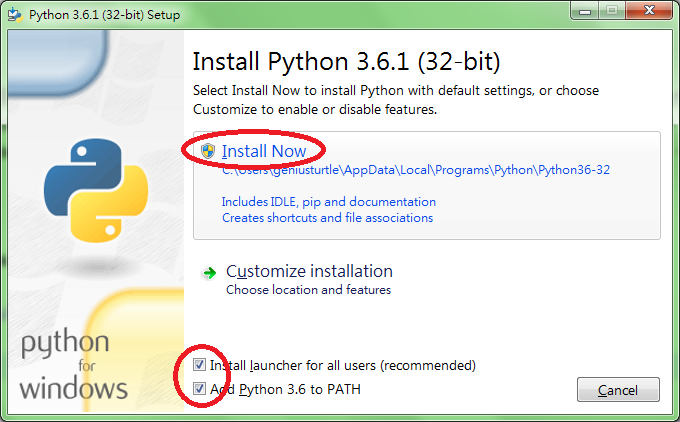
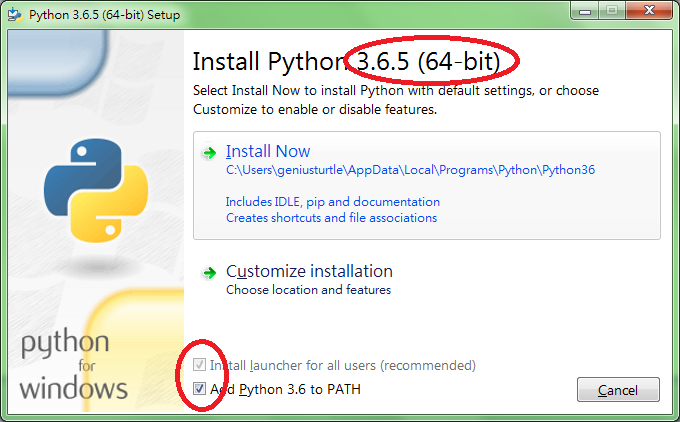
Refine content

diff --git a/tutor_python/envInstall.htm b/tutor_python/envInstall.htm
@@ -11,19 +11,23 @@
 <blockquote>
 
 <p>
-關於開發環境的取得，首先可至 <a href="https://www.python.org/">https://www.python.org/</a>點選「Downloads」→「Binaries」。
-你在這裡可以發現 Python 有兩個版本，Python 2 和 Python 3，本課程將以 3 為主，但在某些狀況下，也會提到 2 與 3 的不同。
+本篇以 Windows 為例，說明 Python 開發環境的安裝。
+關於開發環境的取得，首先可至 <a href="https://www.python.org/">https://www.python.org/</a>點選 Downloads」→「Windows」→「Latest Python 3 Release ...」，並下載「Windows x86-64 executable installer」。
+事實上，你在這些步驟中，可以發現 Python 有兩個版本，Python 2 和 Python 3，
+本課程將以 3 為主，但在某些狀況下，也會提到 2 與 3 的不同。
 以下的安裝說明將以 Windows 為例，若使用其他作業系統，請參考網路上的相關資料。
+另外，由於教材未必會隨 Python 官方網站介面之更改而更新，故實際操作步驟可能與上段敘述有所不同；
+請確定下載的是 Python 3 最新穩定版的 64 位元版本即可，否則可能會有些範例無法執行。
 </p>
 
 <p>
-開始安裝，請勾選最下方的全部選項，再點選 Install Now，以預設的路徑和內容安裝，安裝完成後按關閉即可。
+開始安裝，請確認紅圈處是否與圖片一致，並勾選最下方的全部選項後，點選 Install Now，以預設的路徑和內容安裝，安裝完成後按關閉即可。
 </p>
 <center><img src="pics/envInstall01.png" /></center>
 
 <p>
 安裝完成後，請呼叫出 command window (往後簡稱 cmd，中文為"命令提示字元"，點選 Windows 的"開始"，並在"搜尋程式及檔案"處輸入 cmd)，
-輸入"python"(不含引號)後，若看到以下畫面，則代表安裝成功，即可開始使用。
+輸入"python"(不含引號)後，若看到以下畫面(可再次確認是否與紅圈處一致)，則代表安裝成功，即可開始使用。
 另外，若已安裝過 Python 2，則需要將其中一個版本的 python.exe 修改名稱為 python2.exe 或 python3.exe，以免混淆。
 </p>
 <center><img src="pics/envInstall02.png" /></center>

diff --git a/tutor_python/condition.htm b/tutor_python/condition.htm
@@ -28,8 +28,8 @@ else:
 </pre>
 當條件成立時，將執行敘述一，否則會執行敘述二。如果不需要敘述二，則可省略 else 以下的部分。
 在一行的開頭加入空白使程式往右靠稱為縮排，縮排在 Python 當中是必須的。
-以下範例因網頁編輯器的緣故，會使用 Tab 縮排，但 Python 內建的 IDLE 環境會使用空白(一般使用四個)縮排；
-各位請留意，這兩種方式不可混用。
+本範例使用四個空白作為縮排(但因編輯器的緣故，如果你看的是網頁原始碼，則是使用 Tab 縮排)，Python 內建的 IDLE 環境也會使用空白縮排；
+你可以依照喜好選擇空白的數量或者改用 Tab，但請留意，這些方式應避免混用，否則可能導致程式無法執行或難以除錯。
 </p>
 
 <p>
@@ -138,8 +138,8 @@ else:
 
 <p>
 在數學式子中，我們會寫"a &gt; b &gt; c"，這是大家很熟悉的遞移律。
-在其他語言當中，直接寫"a &gt; b &gt; c"作為判斷式式會有問題的，
-但是在 Python 當中可以直接使用遞移律來撰寫判斷式：
+在其他某些語言當中，直接寫"a &gt; b &gt; c"作為判斷式是會有問題的，
+但是在 Python 當中，可以直接使用遞移律來撰寫判斷式：
 <pre class="brush: py">
 a = 3
 b = 2

diff --git a/tutor_python/numpy.htm b/tutor_python/numpy.htm
@@ -101,7 +101,7 @@ import numpy as np
 
 a = np.array([[1,5,3], [4,2,6]])
 print(np.max(a)) # 在所有元素裡面找
-print(np.max(a, axis=0)) # 對每個 column 找
+print(np.max(a, axis=0)) # 求每個 column 找
 print(np.max(a, axis=1)) # 對每個 row 找
 
 b = np.array([[4,2,5,3,1], [8,6,7,9,0]])
@@ -167,13 +167,23 @@ print(c.reshape(cLen, -1), c.reshape(cLen, -1).shape) # 若需要轉，可以這
 </p>
 
 <p>
-矩陣相乘的方法如下。若是利用 ndarray，可以呼叫 multiply：
+矩陣相乘可以使用 matmul，若是元素對元素相乘，可以呼叫 multiply：
 <pre class="brush: py">
 import numpy as np
-
+ 
 a = np.array([[1,5,3], [4,2,6]])
 b = np.array([[3,5,4,6,7], [8,2,4,7,1], [9,0,2,7,1]])
+print(a)
+print(b)
 print(np.matmul(a, b))
+ 
+print('------------')
+ 
+c = np.array([[1,5,3], [4,2,6]])
+d = np.array([[3,5,4], [9,0,2]])
+print(c)
+print(d)
+print(np.multiply(c, d))
 </pre>
 </p>
 
@@ -187,7 +197,7 @@ print(np.linalg.det(a))
 print('------------')
 b = np.linalg.inv(a)
 print(b)
-print(np.matmul(a,b))
+print(np.matmul(a,b)) # Should be identity
 </pre>
 </p>
 

diff --git a/tutor_python/loop.htm b/tutor_python/loop.htm
@@ -58,7 +58,8 @@ for i in range(1, 101):
 print(s)
 </pre>
 其中的變數 s，會依次被加上 1, 2, 3, ..., 100，所以迴圈跑完以後，就可以得到 1 加到 100 的結果。
-記得一開始要初始化為 0 (歸零)，否則會得到不正確的結果
+記得一開始要初始化為 0 (歸零)，否則會得到不正確的結果。
+當然，若是利用內建指令，則可以寫成「sum(range(1, 101))」。
 </p>
 
 <p>
@@ -160,20 +161,6 @@ for i in range(1, 10):
 </pre>
 Question: 如何改成印直的？
 </p>
-
-<!--p>
-使用巢狀迴圈時，要注意內層迴圈的變數必須跟外層不同。
-以下是一個<b>會發生問題</b>的範例，內層和外層同時使用了變數 i。
-各位可以在執行之前，先預測一下它的效果：
-<pre class="brush: python">
-for i in range(5):
-	print(i)
-	print('---')
-	for i in range(3):
-		print(i)
-	print('===')
-</pre>
-</p-->
 
 <p>
 另外一種迴圈指令是 while，其語法為：

diff --git a/tutor_python/basicIoAndArith.htm b/tutor_python/basicIoAndArith.htm
@@ -113,7 +113,7 @@ a = 3
 b = 2
 c = 1
 d = 4
-e = a+d/b-c; # 3+4/2-1
+e = a + d / b - c # 3 + 4 / 2 - 1
 print('Result:', e)
 </pre>
 </p>
@@ -131,7 +131,7 @@ print(a, b)
 
 <p>
 在前面幾個範例中，除法的結果都恰好是整數，
-如果在數學上是小數的話，則在程式語言中，我們可以利用不同的運算符號，讓程式計算是否捨去小數的結果
+如果在數學上有小數的話，那麼在程式語言中，我們可以利用不同的運算符號，讓程式計算是否捨去小數的結果
 <pre class="brush: py">
 a = 8 / 3
 b = 8 / 4

diff --git a/tutor_python/dict.htm b/tutor_python/dict.htm
@@ -19,8 +19,7 @@
 
 <p>
 使用日常生活中的字典時，你會有一個要查詢的字詞，然後翻找到解釋。
-而 Python 中的字典是一堆 key 與 value 的集合，
-其中的 key 就像是要查詢的字詞，而 value 就像是解釋。
+而在 Python 的字典中，我們把要查詢的字詞稱為 key，翻找到的解釋稱為 value。
 字典的基本使用方法如下：
 <pre class="brush: py">
 d = {123: 456, 'OAO': 'QQ', 'easy': 'hahaha'}

diff --git a/tutor_python/comp.htm b/tutor_python/comp.htm
@@ -83,7 +83,7 @@ print(b)
 此處也順帶介紹一下 map，他可以隱含的幫你把串列的每個元素都處理過一遍：
 <pre class="brush: py">
 a = ['12', '34', '56']
-b = [x for x in map(int, a)] # Python 2 當中，用 b = map(int, a) 就可以了
+b = list(map(int, a)) # 在 Python 2 當中，用 b = map(int, a) 就可以了
 print(a, b)
 </pre>
 </p>

diff --git a/tutor_python/module.htm b/tutor_python/module.htm
@@ -52,13 +52,12 @@ print(QQ.inc(1))
 </p>
 
 <p>
-也可以只 import 一部分：
+也可以只 import 一部分(這時候，在呼叫時就不需要再寫出原本的模組名稱"test")：
 <pre class="brush: py">
 from test import inc
 
 print(inc(1))
 </pre>
-這時候，就不需要再寫出原本的模組名稱"test"。
 </p>
 
 </blockquote>
